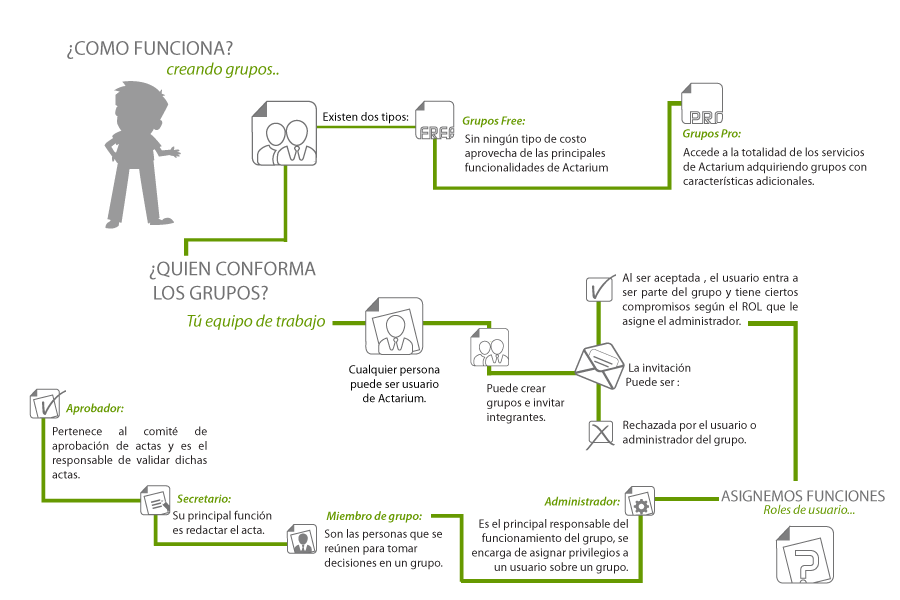
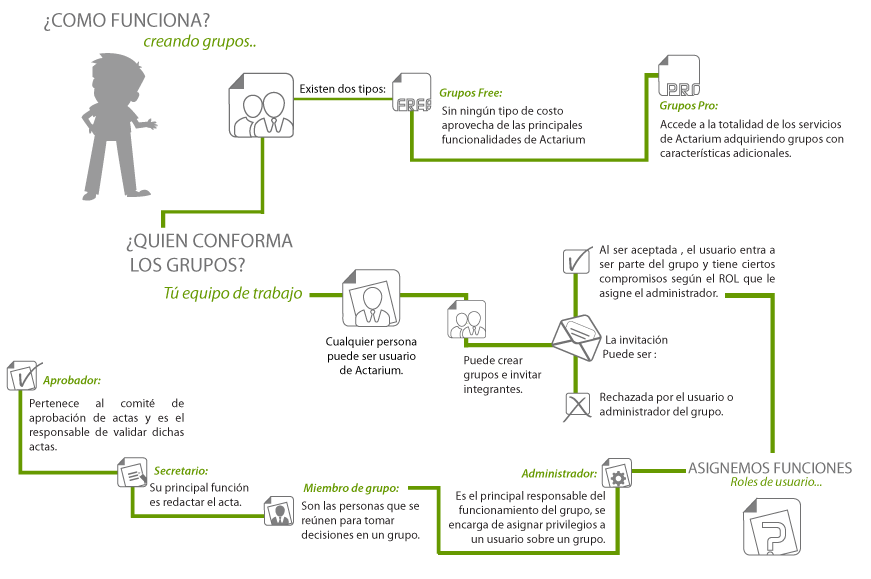
Mejora de imágenes de infografía

Changed region(s): [[0.0, 0.0, 0.992, 0.9948]]

diff --git a/templates/website/about.html b/templates/website/about.html
@@ -19,11 +19,11 @@
 
 {%block style %}
 <style type="text/css">
-#infografia{margin-top: 20px}
-#infografia div{width: 900px;height: 600px;margin:0 auto;}
-#infografia1{background-image: url("{{STATIC_PREFIX}}img/infografia/1.png");}
-#infografia2{background-image: url("{{STATIC_PREFIX}}img/infografia/2.png");}
-#infografia3{background-image: url("{{STATIC_PREFIX}}img/infografia/3.png");}
+/*#infografia{margin-top: 20px}*/
+#infografia div{background-repeat: no-repeat; margin:0 auto;margin-bottom: 70px}
+#infografia1{background-image: url("{{STATIC_PREFIX}}img/infografia/1.png");height:393px;width: 770px;}
+#infografia2{background-image: url("{{STATIC_PREFIX}}img/infografia/2.png");height:579px;width: 870px;}
+#infografia3{background-image: url("{{STATIC_PREFIX}}img/infografia/3.png");height:435px;width: 702px;}
 </style>
 {%endblock%}
 
